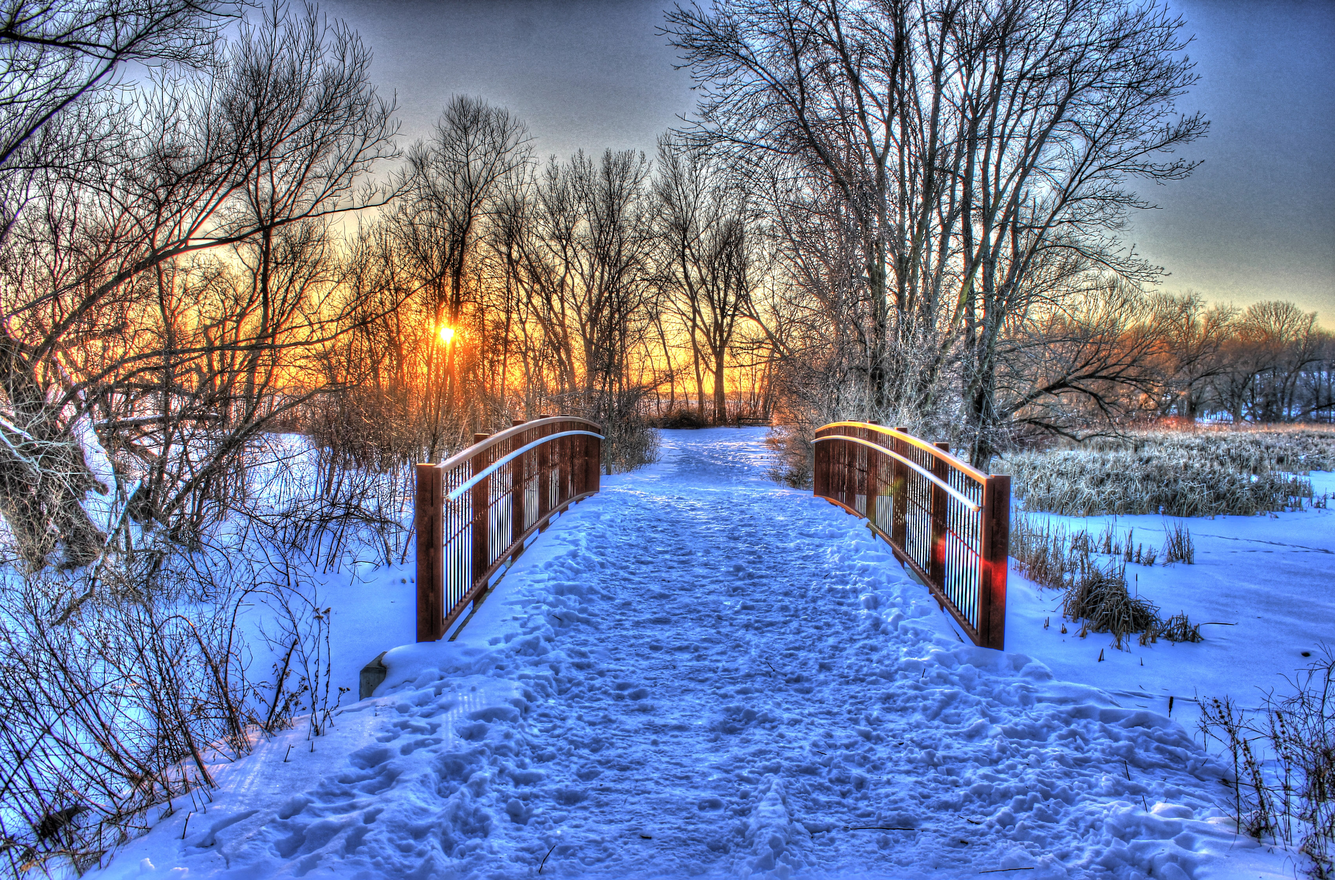
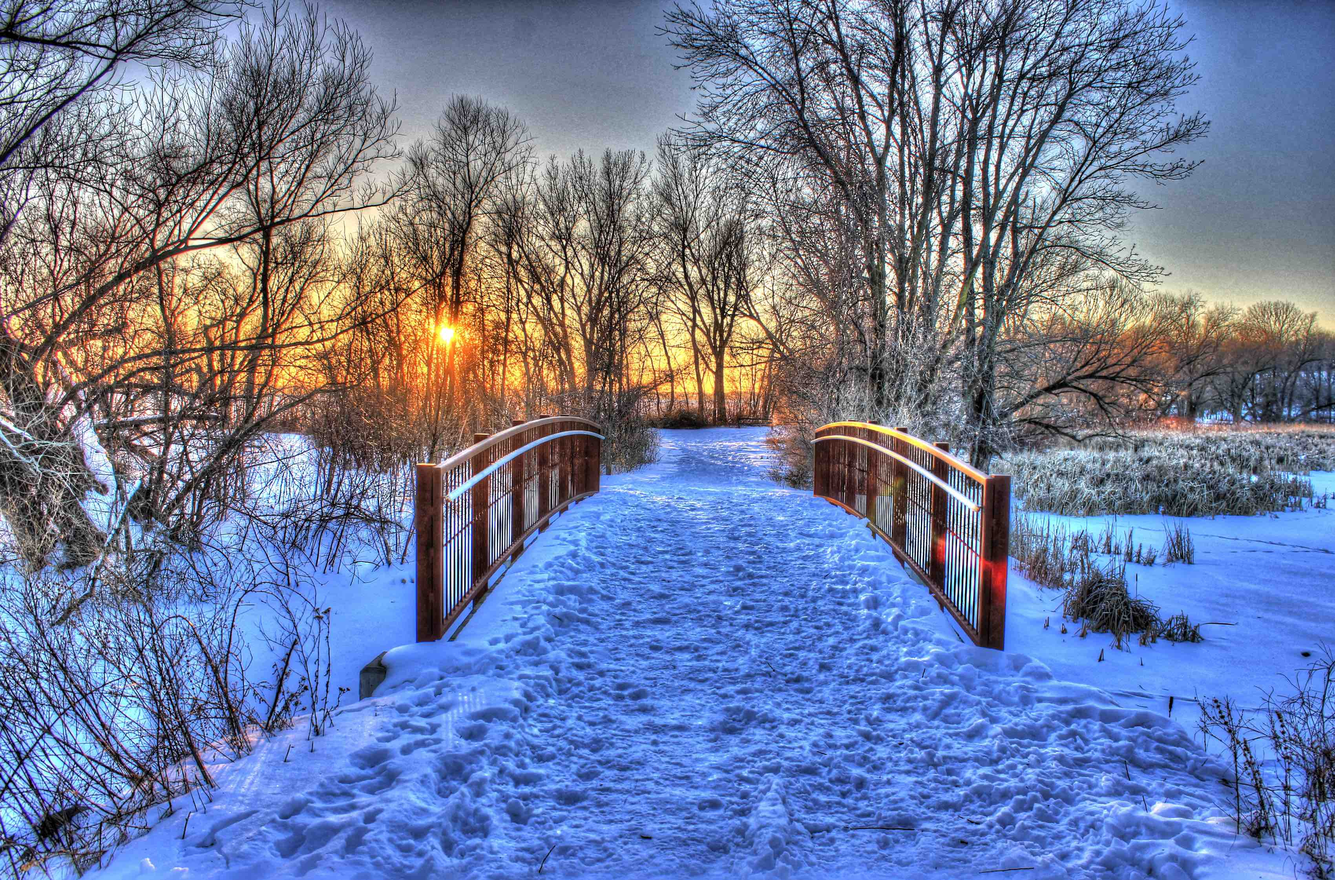
updated image sizes, typo in involved and readme image source

diff --git a/involved.md b/involved.md
@@ -1,6 +1,6 @@
 ## General Involvement
 
-We are actively recruiting for any students that would like to help organize events for the organization! We're excited that you want to get involved, and would love to talk with you! Whether you simplywant your opinion heard during our open discussions, or create a new event in the department, we welcome your involvement.
+We are actively recruiting for any students that would like to help organize events for the organization! We're excited that you want to get involved, and would love to talk with you! Whether you simply want your opinion heard during our open discussions, or create a new event in the department, we welcome your involvement.
 
 ## Officer Elections
 

diff --git a/README.md b/README.md
@@ -2,6 +2,10 @@
 
 This is the official repository for the SGSA website.
 
+# Images
+
+The images are from the [Wisconsin Photo Library](https://uwmadison-photos.photoshelter.com/index)
+
 ## How the website was made
 
 The website was made with [docsify](https://docsify.js.org/#/).
